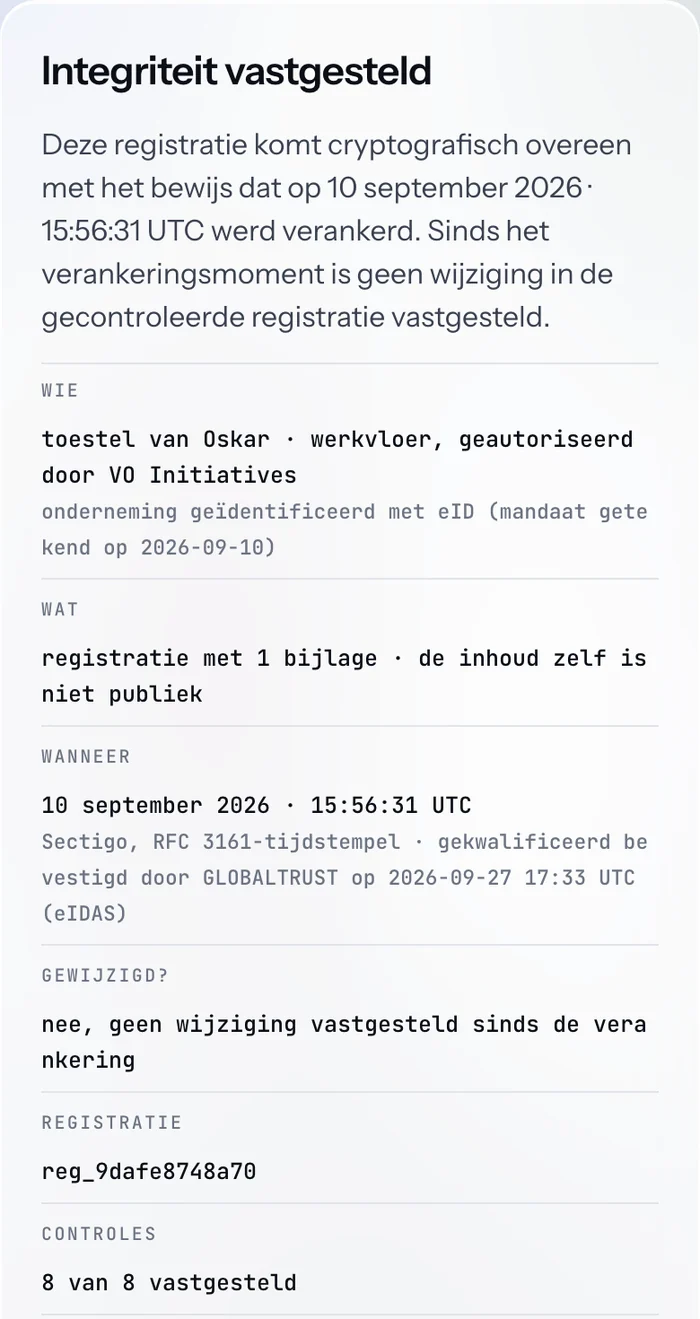
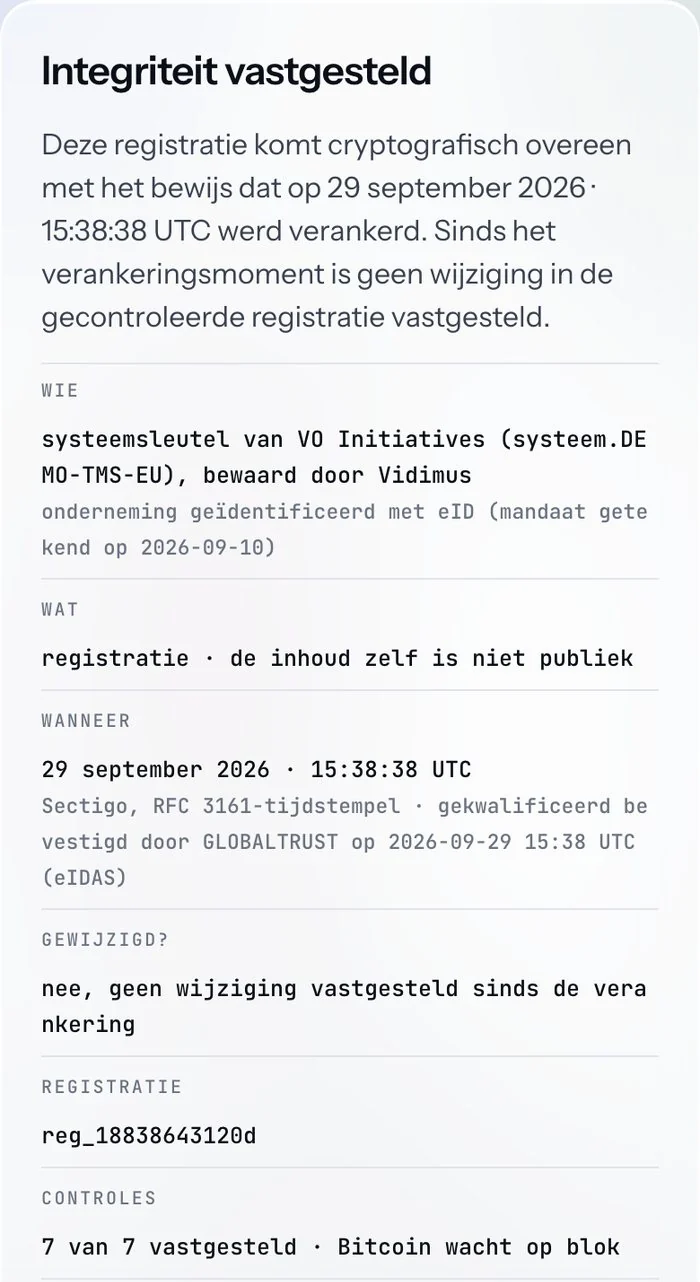
feat: EU-validatie met publieke demoregistratie en de bestanden om zelf te controleren
reg_18838643120d (18 paletten diepvries, demodata, geen persoonsgegevens) → SHA-256 7787f6c9… → Merkle-wortel 282bf1cd…
(6 batches, 3 stappen) → GLOBALTRUST 29/09 15:38:56 UTC → DSS 6.5: Evidence Record PASSED, QTSA. Nieuwe schermen
(controlepagina, DSS eenvoudig + detail QTSA, acht controles), download bewijs.ers + vingerafdruk-invoer.json,
vijf stappen om het zelf te doen, verwijzing vanuit verificatie.html#officieel.

diff --git a/index.html b/index.html
@@ -190,46 +190,65 @@
 </section>
 
 
-<!-- ══ EUROPESE VALIDATIE · één echte registratie, van inhoud tot het rapport van de EU-software (29/09) ══ -->
+<!-- ══ EUROPESE VALIDATIE · één echte demoregistratie, van inhoud tot het rapport van de EU-software, met de bestanden erbij (29/09) ══ -->
 <section class="sec" id="eu" aria-labelledby="eu-h">
   <div class="wrap">
     <div class="sec-lbl kop rv">
       <h2 id="eu-h"><span>Niet geloven<span class="dot">.</span> <span class="thin">Zelf controleren.</span></span></h2>
       <span class="lbl">EUROPESE VALIDATIE · EIDAS</span>
-      <p class="side">De verankering van Vidimus is technisch na te rekenen met de eIDAS-validatiesoftware van de Europese Commissie (DSS). Die software controleert de gekwalificeerde tijdstempel en de vertrouwensketen tot de EU-vertrouwenslijst; de vingerafdruk is het gegeven waaraan die tijdstempel hangt. <b>Hieronder één echte registratie van ons, van begin tot eind.</b></p>
+      <p class="side">De verankering van Vidimus is technisch na te rekenen met de eIDAS-validatiesoftware van de Europese Commissie (DSS). Die software controleert de gekwalificeerde tijdstempel en de vertrouwensketen tot de EU-vertrouwenslijst; de vingerafdruk is het gegeven waaraan die tijdstempel hangt. <b>Hieronder één echte registratie, van begin tot eind. De bestanden staan erbij: doe het zelf.</b></p>
     </div>
     <ol class="eu-keten rv" aria-label="Van registratie tot Europese validatie">
-      <li><span class="lbl">01 · REGISTRATIE</span><b class="mono">reg_9dafe8748a70</b><span>1 foto · VO Initiatives · 10/09/2026 15:56:31 UTC</span></li>
[2 lines of base64/hex data omitted]
-      <li><span class="lbl">04 · GEKWALIFICEERDE TIJDSTEMPEL</span><b>GLOBALTRUST</b><span>27/09/2026 17:33:20 UTC · op de EU-vertrouwenslijst</span></li>
+      <li><span class="lbl">01 · REGISTRATIE</span><b>18 paletten diepvries</b><span>Demo Koeltransport → Demo Retail, Halle · 29/09/2026 15:38:25 UTC</span></li>
[2 lines of base64/hex data omitted]
+      <li><span class="lbl">04 · GEKWALIFICEERDE TIJDSTEMPEL</span><b>GLOBALTRUST</b><span>29/09/2026 15:38:56 UTC · op de EU-vertrouwenslijst</span></li>
       <li class="eind"><span class="lbl">05 · EUROPESE VALIDATIE</span><b>PASSED · QTSA</b><span>DSS 6.5 van de Europese Commissie</span></li>
     </ol>
     <div class="eu-shots">
       <figure class="eu-shot rv">
-        <div class="eu-balk" aria-hidden="true"><i></i><i></i><i></i><span>app.vidimus.be/v/reg_9dafe8748a70</span></div>
-        <picture><source media="(max-width: 720px)" srcset="assets/eu/controle-m.webp" type="image/webp"><source srcset="assets/eu/controle.webp" type="image/webp"><img src="assets/eu/controle.jpg" width="1100" height="712" loading="lazy" decoding="async" alt="Controlepagina van Vidimus voor registratie reg_9dafe8748a70: integriteit vastgesteld, 8 van 8 controles, Sectigo-tijdstempel op 10 september 2026 en gekwalificeerd bevestigd door GLOBALTRUST op 27 september 2026."></picture>
+        <div class="eu-balk" aria-hidden="true"><i></i><i></i><i></i><span>app.vidimus.be/v/reg_18838643120d</span></div>
+        <picture><source media="(max-width: 720px)" srcset="assets/eu/controle-m.webp" type="image/webp"><source srcset="assets/eu/controle.webp" type="image/webp"><img src="assets/eu/controle.jpg" width="1100" height="711" loading="lazy" decoding="async" alt="Controlepagina van Vidimus voor registratie reg_18838643120d: integriteit vastgesteld, verankerd op 29 september 2026 om 15:38:38 UTC met een Sectigo-tijdstempel en gekwalificeerd bevestigd door GLOBALTRUST."></picture>
         <figcaption><b>1 · Vidimus</b> De publieke controlepagina van de registratie. Iedereen opent ze, zonder account.</figcaption>
       </figure>
       <figure class="eu-shot hoofd rv">
         <div class="eu-balk" aria-hidden="true"><i></i><i></i><i></i><span>ec.europa.eu · DSS Demonstration WebApp 6.5</span></div>
-        <picture><source srcset="assets/eu/dss.webp" type="image/webp"><img src="assets/eu/dss.jpg" width="1000" height="839" loading="lazy" decoding="async" alt="Rapport van de DSS-validatiesoftware van de Europese Commissie: Evidence Record van GLOBALTRUST 2015 Qualified Timestamp Service 005, indicatie PASSED, POE time 27 september 2026 17:33:20 UTC, scope vingerafdruk-invoer.json."></picture>
-        <figcaption><b>2 · Europese Commissie</b> Het Evidence Record en de inhoud, gevalideerd op 27/09/2026: <b>PASSED</b>. In het detailrapport: <i>Time-stamp Qualification: QTSA</i>, een gekwalificeerde dienst met status "granted".</figcaption>
+        <picture><source srcset="assets/eu/dss.webp" type="image/webp"><img src="assets/eu/dss.jpg" width="1000" height="699" loading="lazy" decoding="async" alt="Rapport van de DSS-validatiesoftware van de Europese Commissie: Evidence Record van GLOBALTRUST 2015 Qualified Timestamp Service 005, indicatie PASSED, POE time 29 september 2026 15:38:56 UTC, scope vingerafdruk-invoer.json."></picture>
+        <picture><source srcset="assets/eu/dss-qtsa.webp" type="image/webp"><img src="assets/eu/dss-qtsa.jpg" width="1000" height="649" loading="lazy" decoding="async" alt="Detailrapport van DSS: Time-stamp Qualification QTSA, de dienst heeft status granted op de EU-vertrouwenslijst op het moment van de tijdstempel."></picture>
+        <figcaption><b>2 · Europese Commissie</b> Evidence Record en inhoud: <b>PASSED</b>, bestaan bewezen op 29/09/2026 15:38:56 UTC. Eronder het detailrapport: <b>QTSA</b>, een gekwalificeerde dienst met status "granted" op de EU-vertrouwenslijst.</figcaption>
       </figure>
       <figure class="eu-shot extra rv">
-        <div class="eu-balk" aria-hidden="true"><i></i><i></i><i></i><span>app.vidimus.be/v/reg_9dafe8748a70 · controles</span></div>
-        <picture><source srcset="assets/eu/controles.webp" type="image/webp"><img src="assets/eu/controles.jpg" width="1100" height="648" loading="lazy" decoding="async" alt="De acht controles van dezelfde registratie, alle vastgesteld: inhoud, batch, handtekening indiener, handtekening Vidimus, grootboek, tijdstempel, gekwalificeerde tijdstempel en Bitcoin-blok 966376."></picture>
-        <figcaption><b>3 · Vidimus</b> Dezelfde registratie, acht controles. Elke controle is zonder ons te herhalen.</figcaption>
+        <div class="eu-balk" aria-hidden="true"><i></i><i></i><i></i><span>app.vidimus.be/v/reg_18838643120d · controles</span></div>
+        <picture><source srcset="assets/eu/controles.webp" type="image/webp"><img src="assets/eu/controles.jpg" width="1100" height="657" loading="lazy" decoding="async" alt="De acht controles van dezelfde registratie: inhoud, batch, handtekening indiener, handtekening Vidimus, grootboek, tijdstempel en gekwalificeerde tijdstempel vastgesteld; Bitcoin wacht op een blok."></picture>
+        <figcaption><b>3 · Vidimus</b> Dezelfde registratie, acht controles. Bitcoin volgt een paar uur later, als het blok gemijnd is.</figcaption>
       </figure>
+    </div>
+    <div class="eu-zelf glass rv" id="eu-zelf">
+      <div class="eu-zelf-kop">
+        <span class="lbl">DOE HET ZELF · 2 MINUTEN</span>
+        <h3>Dezelfde controle, op uw scherm</h3>
+        <p>Demodata, geen persoonsgegevens. Kies in stap 3 SHA256: dan verlaat alleen de vingerafdruk uw computer.</p>
+        <div class="eu-dl">
+          <a class="xbtn red" href="assets/eu/demo/bewijs.ers" download="vidimus-demo-bewijs.ers"><span>bewijs.ers</span><small class="duur">3 kB</small></a>
+          <a class="xbtn" href="assets/eu/demo/vingerafdruk-invoer.json" download="vidimus-demo-vingerafdruk-invoer.json"><span>vingerafdruk-invoer.json</span><small class="duur">1 kB</small></a>
+        </div>
+      </div>
+      <ol class="eu-stappen">
+        <li><b>Download de twee bestanden</b><span>het Evidence Record (RFC 4998) en de exacte inhoud die gehasht werd</span></li>
+        <li><b>Open de software van de Commissie</b><span><a href="https://ec.europa.eu/digital-building-blocks/DSS/webapp-demo/validation" rel="noopener">DSS · Validate a signature</a>, of de versie op uw eigen computer</span></li>
+        <li><b>Signed file: bewijs.ers · Original file(s): vingerafdruk-invoer.json</b><span>verstuur als SHA256, laat de rest staan en klik Submit</span></li>
+        <li><b>Lees het rapport</b><span>PASSED, POE time 2026-09-29 15:38:56 (UTC); in Detailed Report: Time-stamp Qualification QTSA</span></li>
+        <li><b>Wijzig één teken in het json-bestand en probeer opnieuw</b><span>dan klopt het niet meer: zo werkt het bewijs</span></li>
+      </ol>
     </div>
     <div class="eu-voet rv">
       <div class="eu-noot">
         <p><b>Wat dit is, en wat niet.</b> De Commissie keurt Vidimus niet goed en ziet de inhoud niet: haar software rekent na wat u aanlevert. Onder eIDAS (art. 41) geldt voor een gekwalificeerde elektronische tijdstempel het vermoeden dat datum en tijd juist zijn en dat de gegevens waaraan hij hangt sindsdien niet veranderden.</p>
-        <p>Deze registratie is van 10 september. Het gekwalificeerde stempel kwam op 27 september, toen we het aanzetten, en dekte alle 94 eerdere batches in één keer. Nieuwe registraties krijgen het binnen zes uur. De online demo van de Commissie is om te testen; voor een zaak gebruikt u de versie op uw eigen computer.</p>
+        <p>Voor deze demo zetten we het gekwalificeerde stempel meteen; bij klantregistraties volgt het binnen zes uur. De online demo van de Commissie is om te testen; voor een zaak gebruikt u de versie op uw eigen computer.</p>
       </div>
       <div class="hero-actions">
-        <a class="xbtn red steel" href="verificatie.html#officieel"><span>Controleer het bewijs zelf</span><svg aria-hidden="true"><use href="#i-arrow"/></svg></a>
-        <a class="xbtn" href="https://app.vidimus.be/v/reg_9dafe8748a70"><span>Open deze controlepagina</span></a>
+        <a class="xbtn" href="https://app.vidimus.be/v/reg_18838643120d"><span>Open deze controlepagina</span></a>
+        <a class="go" href="verificatie.html#officieel">De volledige handleiding<svg aria-hidden="true"><use href="#i-arrow"/></svg></a>
       </div>
     </div>
   </div>

diff --git a/verificatie.html b/verificatie.html
@@ -76,7 +76,7 @@
       <li><span><b>Wie is de onderneming?</b> Vraag het met eID getekende mandaat (pdf) aan de onderneming. Leg het in dezelfde EU-software: de handtekening van de beheerder is gekwalificeerd. De SHA-256 van het pdf staat in de bundel (<code class="m">organisatie.mandaat_eid.pdf_sha256</code>) en is zelf verankerd. Het pdf zit niet in de bundel, omdat het eID-certificaat het rijksregisternummer van de beheerder bevat.</span></li>
       <li><span><b>Bijlagen erbij?</b> <code class="m">sha256sum attachments/&lt;naam&gt;</code> geeft een waarde die in <code class="m">vingerafdruk-invoer.json</code> staat. Zo hangen ook de foto's en pdf's aan het gevalideerde bewijs.</span></li>
     </ol>
-    <p class="law-note rv" style="margin-top:1.2rem"><b style="color:var(--ink)">Getest op 27 september 2026</b> met DSS 6.5 van de Europese Commissie, op een registratie van Vidimus zelf: Evidence Record <b style="color:var(--ink)">PASSED</b>, tijdstempel <b style="color:var(--ink)">QTSA</b> (GLOBALTRUST, Oostenrijk), eerste hashlijst bevat alleen het aangeleverde document.</p>
+    <p class="law-note rv" style="margin-top:1.2rem"><b style="color:var(--ink)">Getest op 27 september 2026</b> met DSS 6.5 van de Europese Commissie, op een registratie van Vidimus zelf: Evidence Record <b style="color:var(--ink)">PASSED</b>, tijdstempel <b style="color:var(--ink)">QTSA</b> (GLOBALTRUST, Oostenrijk), eerste hashlijst bevat alleen het aangeleverde document. <b style="color:var(--ink)">Zelf proberen zonder eigen registratie?</b> De twee bestanden van een publieke demoregistratie (29/09/2026, zelfde uitkomst) staan op <a href="index.html#eu-zelf">de homepage</a>.</p>
     <div class="hero-actions rv" style="margin-top:1.4rem">
       <a class="xbtn red" href="https://ec.europa.eu/digital-building-blocks/DSS/webapp-demo/signature-standalone" rel="noopener" target="_blank"><span>EU-validatiesoftware, op uw computer</span><svg aria-hidden="true"><use href="#i-arrow"/></svg></a>
       <a class="xbtn" href="https://ec.europa.eu/digital-building-blocks/DSS/webapp-demo/validation" rel="noopener" target="_blank"><span>Online demo om te proberen</span></a>

diff --git a/site.css b/site.css
@@ -710,3 +710,20 @@ header.site > .menu-knop { display: none; }
   .eu-shot.extra { display: none; }
   .eu-shot img { aspect-ratio: auto; }
 }
+/* doe het zelf: de twee bestanden en vijf stappen naar het rapport van de Commissie */
+.eu-shot.hoofd picture + picture { border-top: 1px solid var(--line); }
+.eu-zelf { display: grid; grid-template-columns: minmax(0, .9fr) minmax(0, 1.1fr); gap: clamp(20px, 3vw, 44px); margin-top: clamp(24px, 3.4vw, 40px); padding: clamp(22px, 3vw, 34px); border-radius: 24px; }
+.eu-zelf-kop { display: grid; gap: 10px; align-content: start; }
+.eu-zelf-kop h3 { font-size: clamp(22px, 1.2rem + .6vw, 28px); font-weight: 600; letter-spacing: -.03em; line-height: 1.15; }
+.eu-zelf-kop p { font-size: 14px; line-height: 1.55; color: var(--ink-3); max-width: 42ch; }
+.eu-dl { display: flex; flex-wrap: wrap; gap: 10px; margin-top: 6px; }
+.eu-dl .xbtn { height: 46px; padding-inline: 18px; font-family: var(--mono); font-size: 13px; }
+.eu-dl .xbtn.red .duur { color: rgba(255, 255, 255, .7); }
+.eu-stappen { list-style: none; margin: 0; padding: 0; display: grid; gap: 12px; counter-reset: eu; }
+.eu-stappen li { counter-increment: eu; display: grid; grid-template-columns: 30px minmax(0, 1fr); column-gap: 12px; }
+.eu-stappen li::before { content: counter(eu, decimal-leading-zero); grid-row: 1 / 3; font: 500 11px/1.9 var(--mono); letter-spacing: .1em; color: var(--act); }
+.eu-stappen b { font-size: 15px; font-weight: 600; letter-spacing: -.01em; overflow-wrap: anywhere; }
+.eu-stappen span { grid-column: 2; font-size: 14px; line-height: 1.5; color: var(--ink-3); overflow-wrap: anywhere; }
+.eu-stappen a { color: var(--act); }
+.eu-voet .hero-actions { align-items: center; }
+@media (max-width: 900px) { .eu-zelf { grid-template-columns: 1fr; } }
